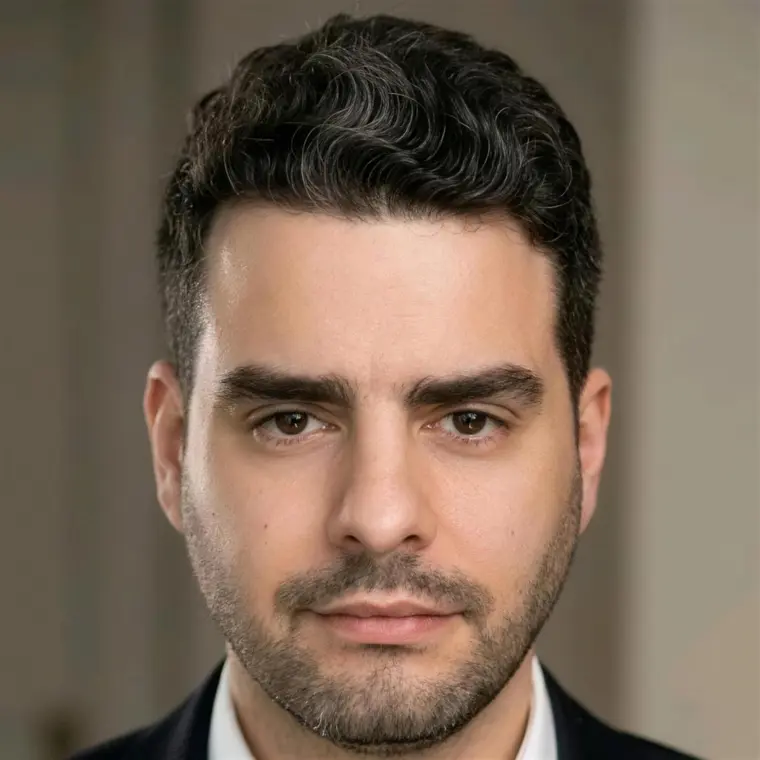
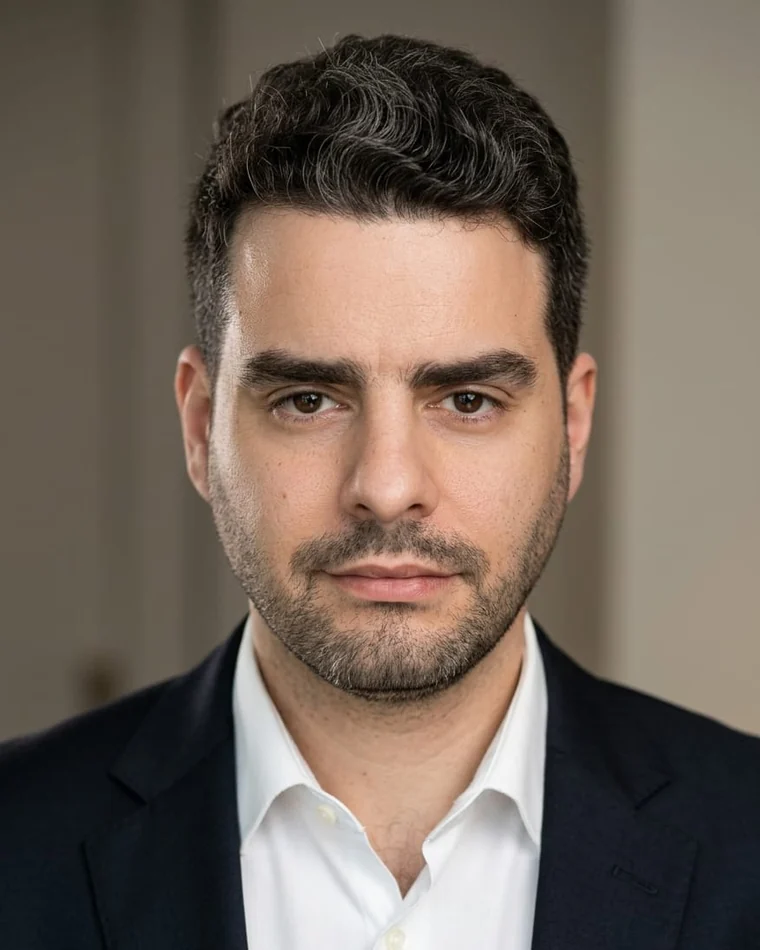
Revisions: restore preferred myth copy, real scroll reveals, new portrait
- FIG. II: restore original P1 and sigil line, keep the AI-age crossing
  paragraph; rewrite the fleece note in plain words (deliverable standard
  + explicit AI-image disclosure)
- Fleece image enlarged (1.18fr column)
- Reveal failsafe now fires only if IntersectionObserver never reveals
  anything, so panels genuinely animate in on scroll as designed
- Contact portrait: full 877px-native photo, 4:5 crop at 760x950,
  replacing the upscaled 400px close-up that is used everywhere else

diff --git a/assets/js/main.js b/assets/js/main.js
@@ -261,14 +261,18 @@
   if (reduce || !('IntersectionObserver' in window)) {
     revealEls.forEach(function (e) { e.classList.add('in'); });
   } else {
+    var ioWorked = false;
     var rio = new IntersectionObserver(function (entries) {
       entries.forEach(function (en) {
-        if (en.isIntersecting) { en.target.classList.add('in'); rio.unobserve(en.target); }
+        if (en.isIntersecting) { ioWorked = true; en.target.classList.add('in'); rio.unobserve(en.target); }
       });
     }, { threshold: 0.12, rootMargin: '0px 0px -8% 0px' });
     revealEls.forEach(function (e) { rio.observe(e); });
-    // safety: nothing stays hidden if IO misfires
-    setTimeout(function () { revealEls.forEach(function (e) { e.classList.add('in'); }); }, 3000);
+    // safety: if IO never reveals anything (misfire), unhide everything;
+    // otherwise leave off-screen elements hidden so they reveal on scroll
+    setTimeout(function () {
+      if (!ioWorked) revealEls.forEach(function (e) { e.classList.add('in'); });
+    }, 3000);
   }
 
   /* ---- sheet-index disclosure (mobile nav) ---- */

diff --git a/index.html b/index.html
@@ -151,9 +151,9 @@
       <div class="myth-story reveal">
         <p class="gr">ΦΡΙΞΟΣ · PHRIXUS</p>
         <h3>The ram carried him across the sea. <em>The fleece stayed behind.</em></h3>
-        <p>That is nearly the whole myth of Phrixus, the boy this name comes from. His own family was about to sacrifice him; a golden ram carried him out over the water instead. The fleece he left behind became the <b>Golden Fleece</b>. The ram became <b>Aries</b>.</p>
+        <p>That is the whole myth of Phrixus, the boy this name comes from. A golden ram carried him somewhere he could not go alone; its fleece became the <b>Golden Fleece</b>, and the ram was set among the stars as <b>Aries</b>.</p>
         <p>I keep the story around because the job kept its shape: <b>get sent across, embed where the work is, and leave behind something worth keeping</b>. The sea is the AI age now, and every business has a crossing to make.</p>
-        <p>The one place the sigil takes the myth literally is the horns: honest golden spirals, tightening by <b>φ every quarter turn</b>. That is as far as the myth goes.</p>
+        <p>The sigil takes the myth literally in exactly one place: the horns are true golden spirals, <b>φ per quarter turn</b>. That is as far as the myth goes.</p>
       </div>
       <div class="myth-chart reveal reveal-d1">
         <svg id="constellation" viewBox="0 56 512 404" role="img" aria-label="The ram sigil drawn as a constellation"></svg>
@@ -165,7 +165,7 @@
         <span class="tag">SPECIMEN · THE FLEECE</span>
         <img id="fleece-media" src="assets/img/fleece.webp" alt="Macro study of golden fleece fibers catching warm light" loading="lazy" width="1280" height="720">
       </div>
-      <p class="specimen-note reveal reveal-d1"><span class="k">THE THING WORTH KEEPING</span>The fleece is the deliverable: what stayed behind was worth sending the Argo after. Still a decent bar for a handoff. This study of it is AI-generated; everything else on this page is hand-built.</p>
+      <p class="specimen-note reveal reveal-d1"><span class="k">THE THING WORTH KEEPING</span>The fleece is the deliverable. What Phrixus left behind was precious enough that a ship full of heroes sailed after it: a decent standard for what an engineer hands over. Honest note: this image of it is AI-generated, the only thing on this page that is. The rest is hand-built.</p>
     </div>
   </section>
 
@@ -218,7 +218,7 @@
     </div>
     <div class="contact">
       <div class="portrait reveal">
-        <img src="assets/img/headshot.webp" alt="Portrait of Frixos Andreou" width="760" height="760">
+        <img src="assets/img/headshot.webp" alt="Portrait of Frixos Andreou" width="760" height="950">
         <p class="pcap"><span>F. ANDREOU</span><span>55.676° N · CPH</span></p>
       </div>
       <div class="contact-copy reveal reveal-d1">

diff --git a/assets/css/main.css b/assets/css/main.css
@@ -193,7 +193,7 @@ body{
 .myth-chart{position:relative}
 .myth-chart svg{width:100%;height:auto;overflow:visible}
 .myth-chart .cap{margin-top:10px;text-align:center;font-family:var(--mono);font-size:11px;letter-spacing:.22em;color:var(--night-label)}
-.specimen{margin-top:clamp(40px,7vh,72px);display:grid;grid-template-columns:minmax(0,1fr) minmax(0,1fr);gap:clamp(28px,5vw,80px);align-items:center}
+.specimen{margin-top:clamp(40px,7vh,72px);display:grid;grid-template-columns:minmax(0,1.18fr) minmax(0,.82fr);gap:clamp(28px,5vw,80px);align-items:center}
 .specimen-media{position:relative;border:1px solid #2A3654;background:#000}
 .specimen-media video,.specimen-media img{display:block;width:100%;height:auto}
 .specimen-media .tag{position:absolute;top:0;left:0;font-family:var(--mono);font-size:10px;letter-spacing:.2em;